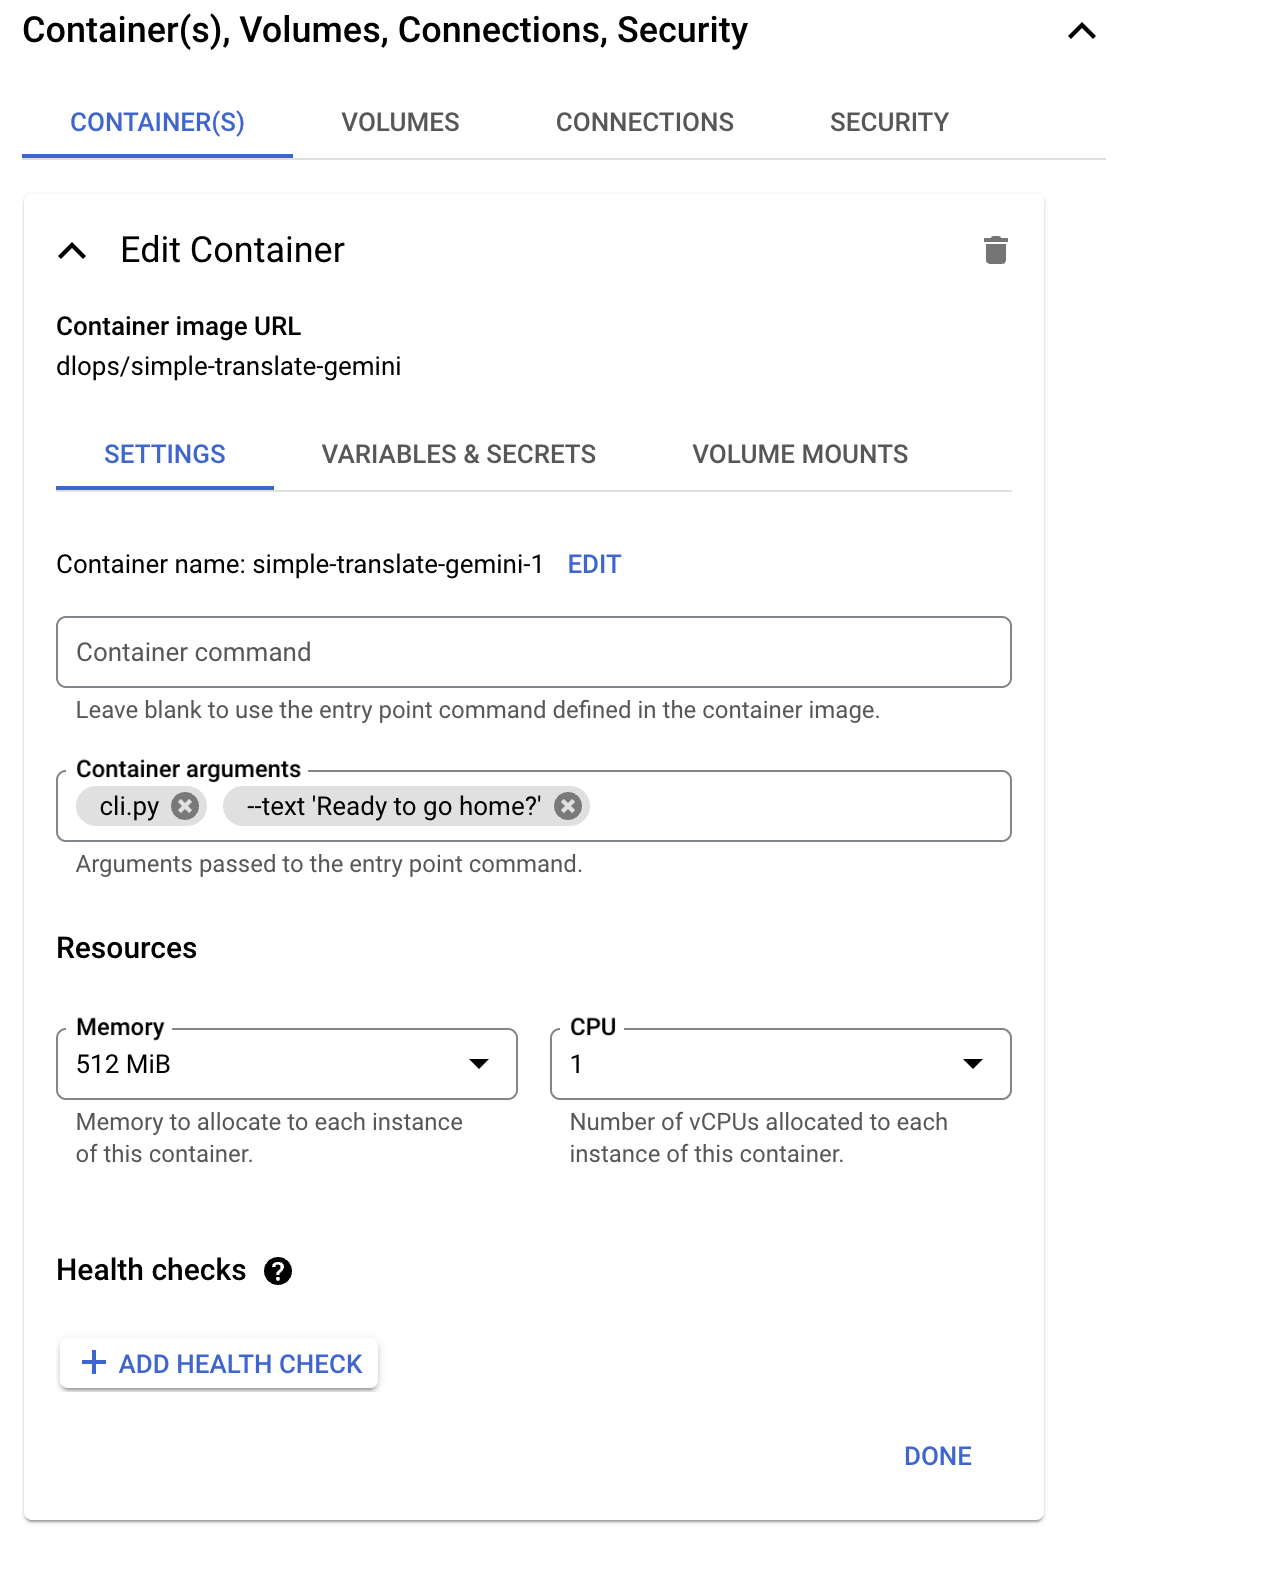
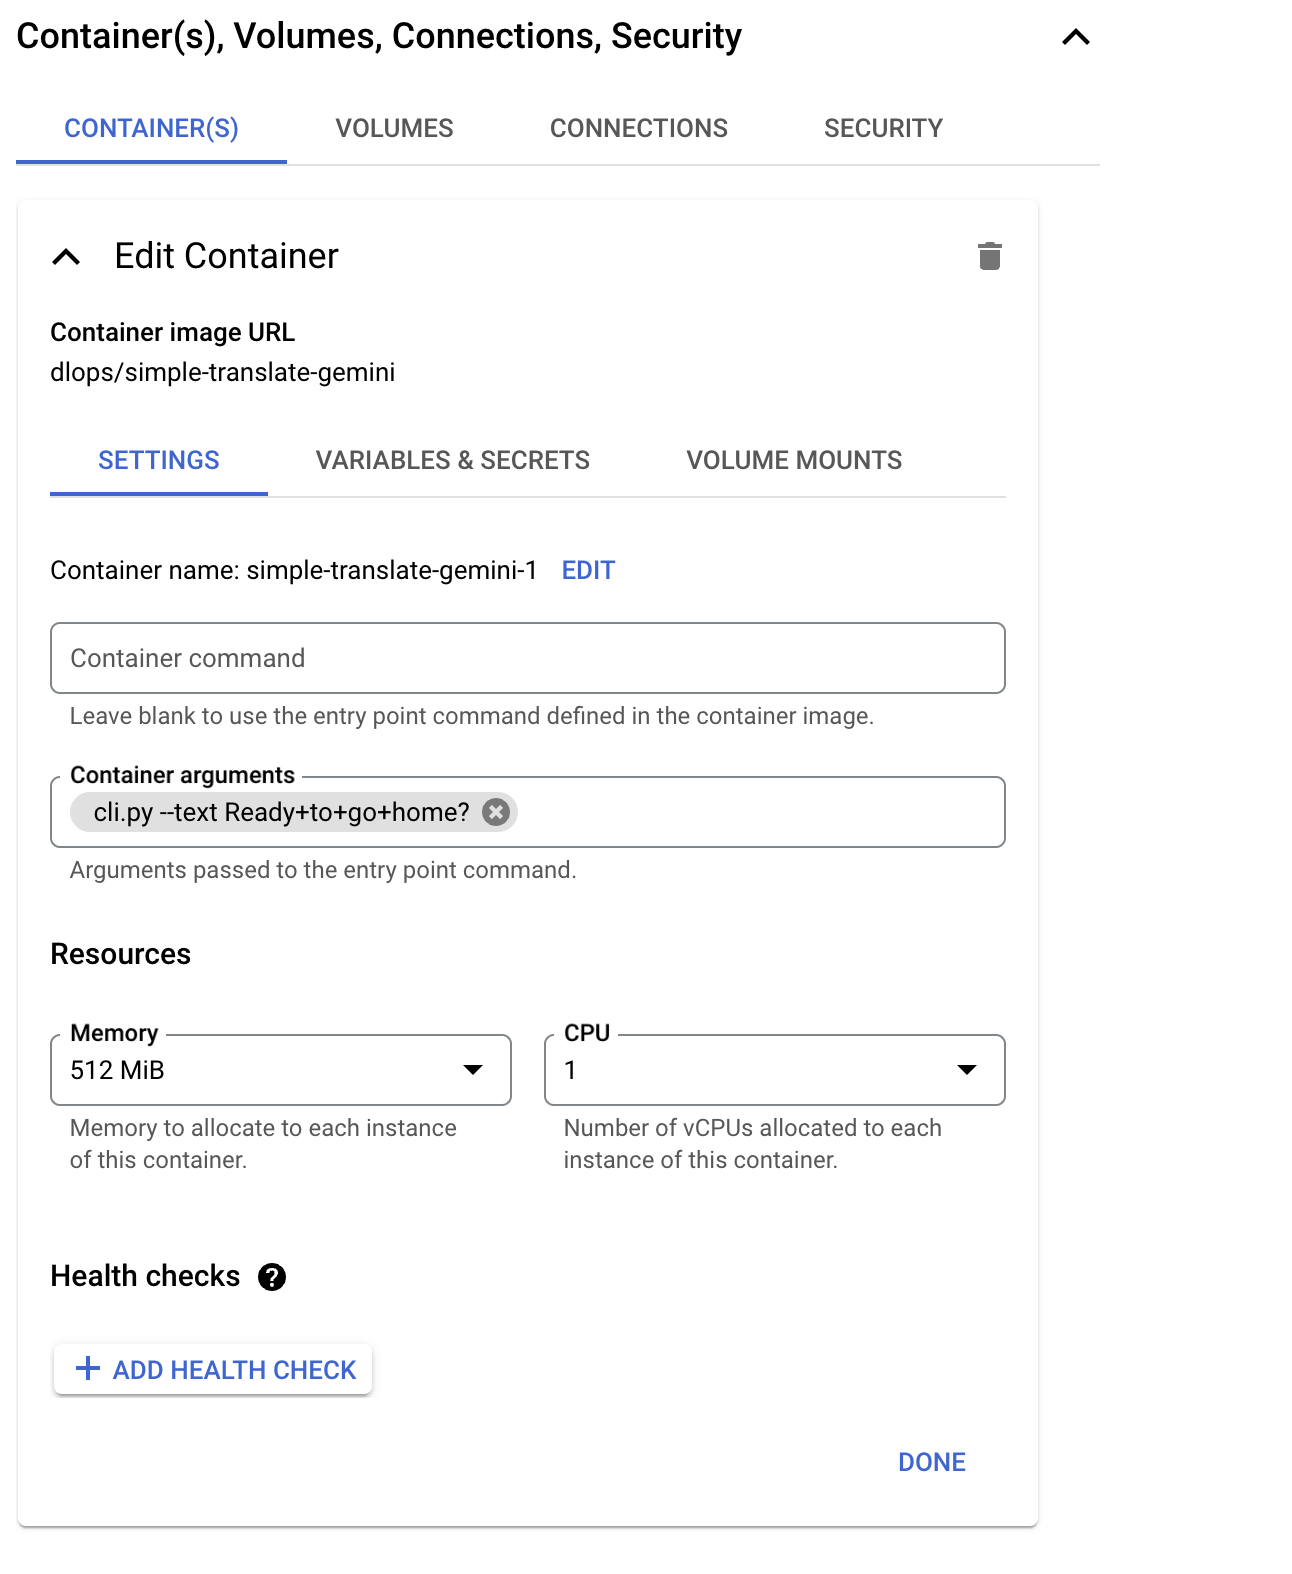
Fixed readme

diff --git a/README.md b/README.md
@@ -124,7 +124,7 @@ Here are the details for creating a job:
 
 This will run the simple-translate container using the default arguments. If you want to pass arguments:
 * Select "CONTAINER(S)" tab and in the SETTINGS area
-* For Container arguments type in: cli.py --text 'Ready to go home?'
+* For Container arguments type in: cli.py --text Ready+to+go+home?
 
 Here are the details for running a job with container arguments:
 <img src="images/cloud-run-job-02.png"  width="500">
